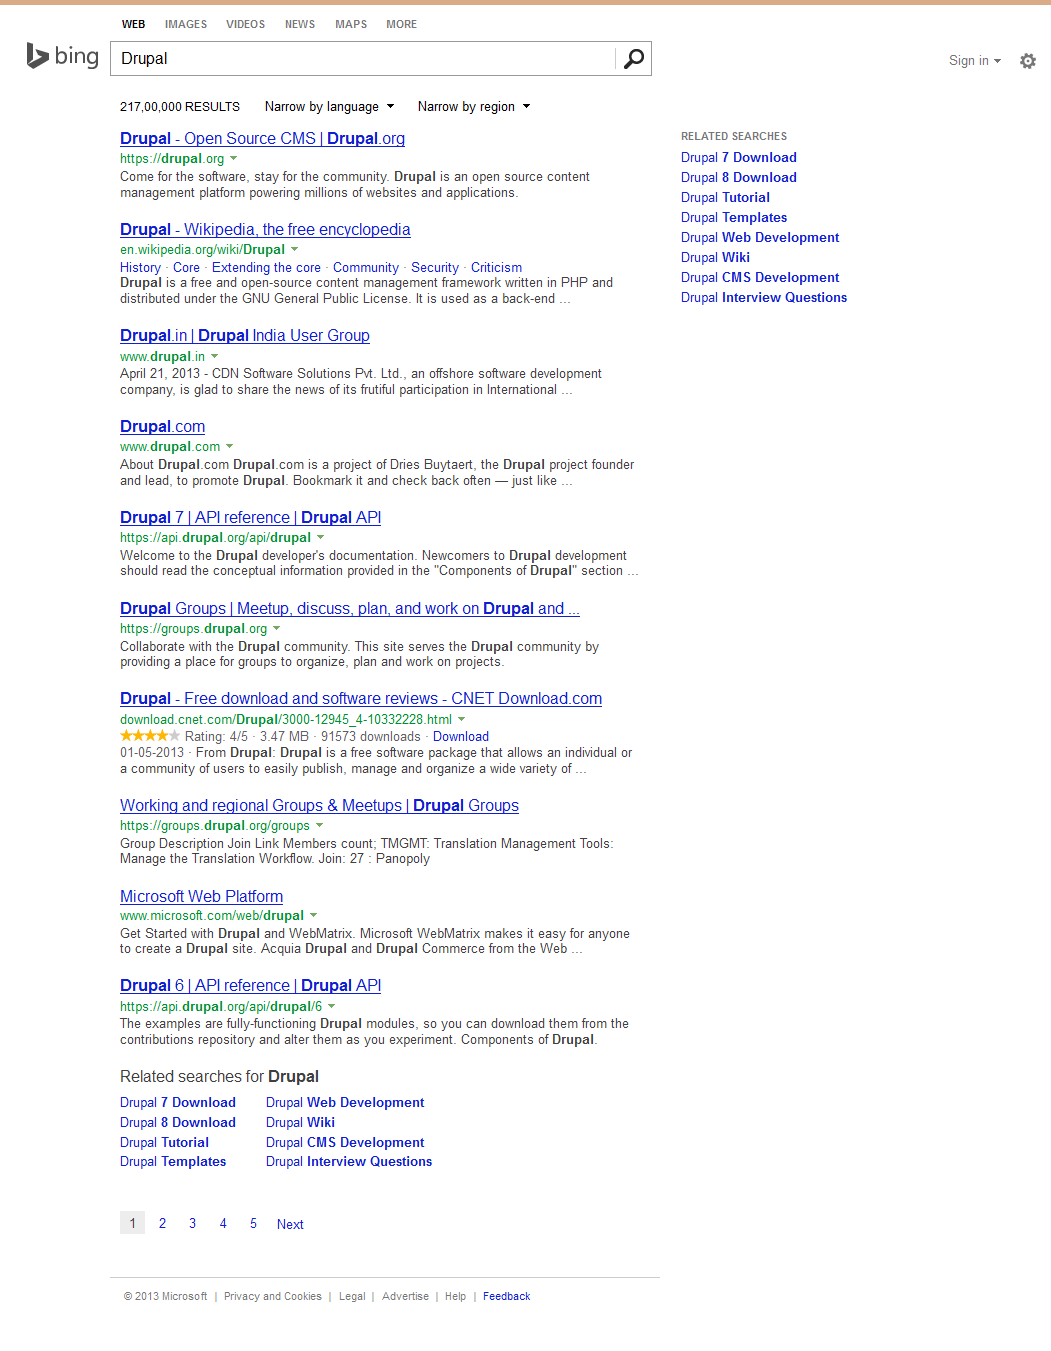
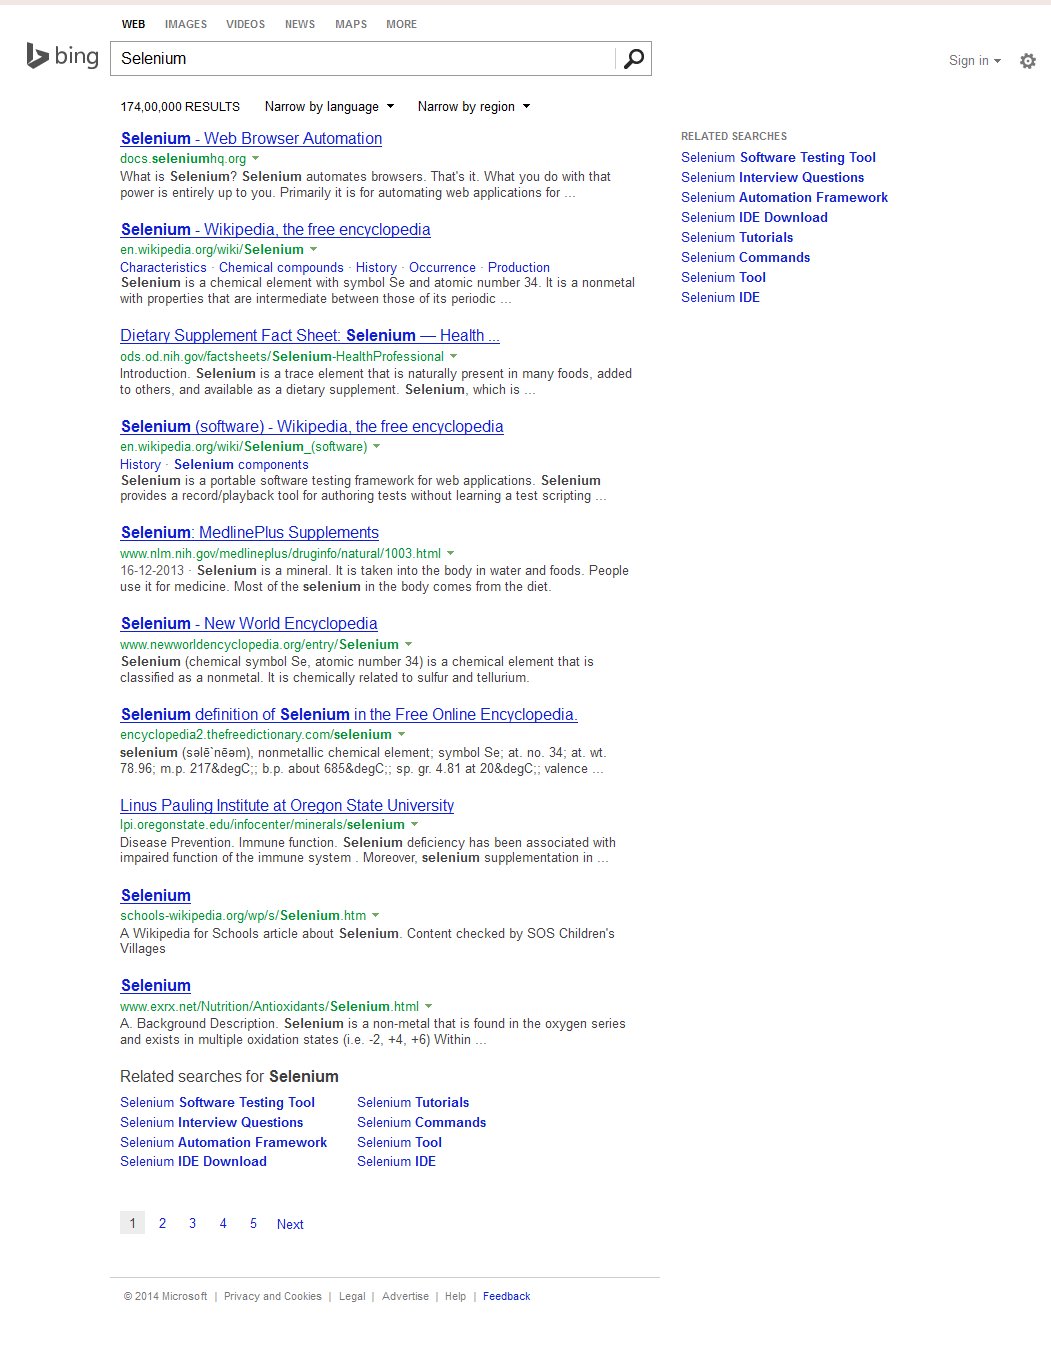
commmmmmmmmit

Changed region(s): [[0.0913, 0.0933, 0.6089, 0.8705], [0.0, 0.0, 1.0, 0.0622], [0.6394, 0.0933, 0.8221, 0.2487]]

diff --git a/workspace/smeet/src/test/java/com/psl/selenium/smeet/TestingGoogle.java b/workspace/smeet/src/test/java/com/psl/selenium/smeet/TestingGoogle.java
@@ -11,7 +11,9 @@ import java.util.concurrent.TimeUnit;
 
 import org.apache.commons.io.FileUtils;
 import org.junit.After;
+import org.junit.AfterClass;
 import org.junit.Before;
+import org.junit.BeforeClass;
 import org.junit.Test;
 import org.openqa.selenium.By;
 import org.openqa.selenium.OutputType;
@@ -27,24 +29,20 @@ public class TestingGoogle {
 	//  private WebDriver driver;
 	
 	  private ScreenshotHelper screenshotHelper;
-	  private static  WebDriver driver=new FirefoxDriver();
+	  private static  WebDriver driver;
 		private static  String baseUrl;
 	  
 		
 		@Before
 	  public void openBrowser() {
+			driver=new FirefoxDriver();
 			baseUrl = "http://www.bing.com/";
 			driver.get(baseUrl);
 			driver.manage().timeouts().implicitlyWait(30, TimeUnit.SECONDS);
 	    screenshotHelper = new ScreenshotHelper();
 	  }
 	  
-	  @After
-	  public void saveScreenshotAndCloseBrowser() throws IOException {
-	    screenshotHelper.saveScreenshot("screenshot.png");
-	    driver.quit();
-	  }
-	  
+	   
 	  @Test
 	  public void pageTitleAfterSearchShouldBeginWithDrupal() throws IOException {
 	 // assertEquals("The page title should equal Google at the start of the test.", "Google", driver.getTitle());
@@ -55,31 +53,24 @@ public class TestingGoogle {
 	    assertEquals("Drupal",verify);
 	  
 	  }
+	  @Test
+	  public void pageTitleAfterSearchShouldBeginWithDrupal1() throws IOException {
+	 // assertEquals("The page title should equal Google at the start of the test.", "Google", driver.getTitle());
+	    WebElement searchField = driver.findElement(By.id("sb_form_q"));
+	    searchField.sendKeys("Selenium");
+	    searchField.submit();
+	    String verify=driver.findElement(By.xpath("//*[@id='wg0']/li[1]/div/div/div[1]/h3/a/strong[1]")).getText();
+	    assertEquals("Selenium",verify);
+	  
+	  }
 	 
 
-		@Test
-		public void Verify_Test() throws Exception  {
-			driver.get("http://www.google.com");
-			driver.manage().timeouts().implicitlyWait(30, TimeUnit.SECONDS);
-			String ExpectedLabel="Google Search";
-			String buttonLabel=driver.findElement(By.id("gbqfsa")).getText();
-			assertEquals(ExpectedLabel,buttonLabel);
-			}
-
-		@Test
-		public void Verify_SignIn() throws Exception  {
-			driver.get("http://www.google.com");
-			driver.manage().timeouts().implicitlyWait(30, TimeUnit.SECONDS);
-			driver.findElement(By.id("gb_70")).click();
-			String ExpectedLabel="Stay signed in";
-			String signIn=driver.findElement(By.xpath("//*[@id='gaia_loginform']/label[3]/span")).getText();
-			
-			// String signIn=driver.findElement(By.id("signIn")).getText();
-			
-			assertEquals(ExpectedLabel,signIn);
-			}
-	  
-	  
+		@After
+		  public void saveScreenshotAndCloseBrowser() throws IOException {
+		    screenshotHelper.saveScreenshot("screenshot.png");
+		    driver.quit();
+		  }
+		 
 	  
 	  private class ScreenshotHelper {
 	      public void saveScreenshot(String screenshotFileName) throws IOException {
